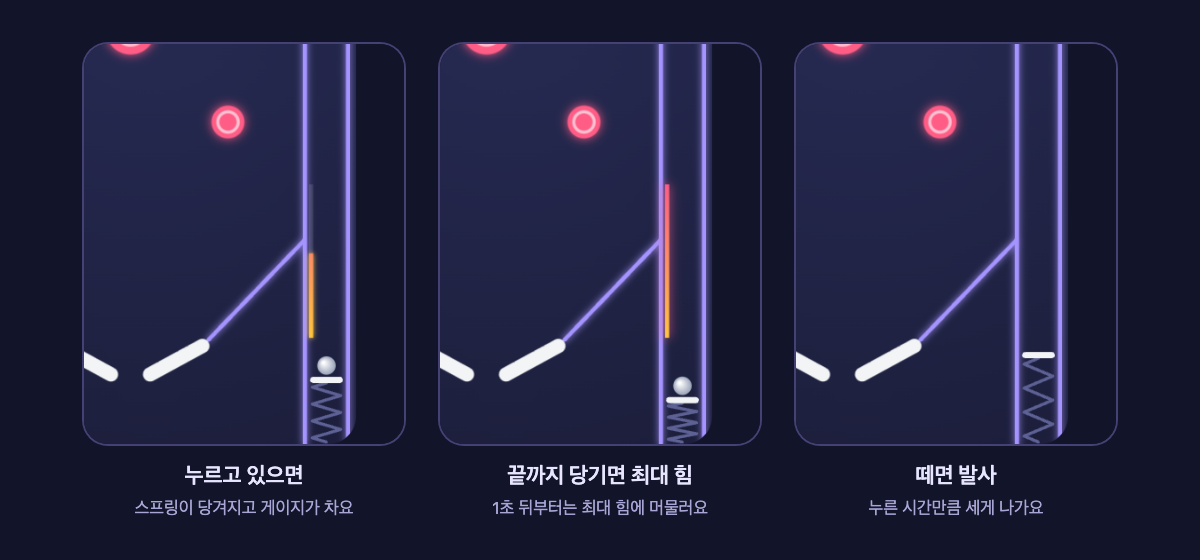
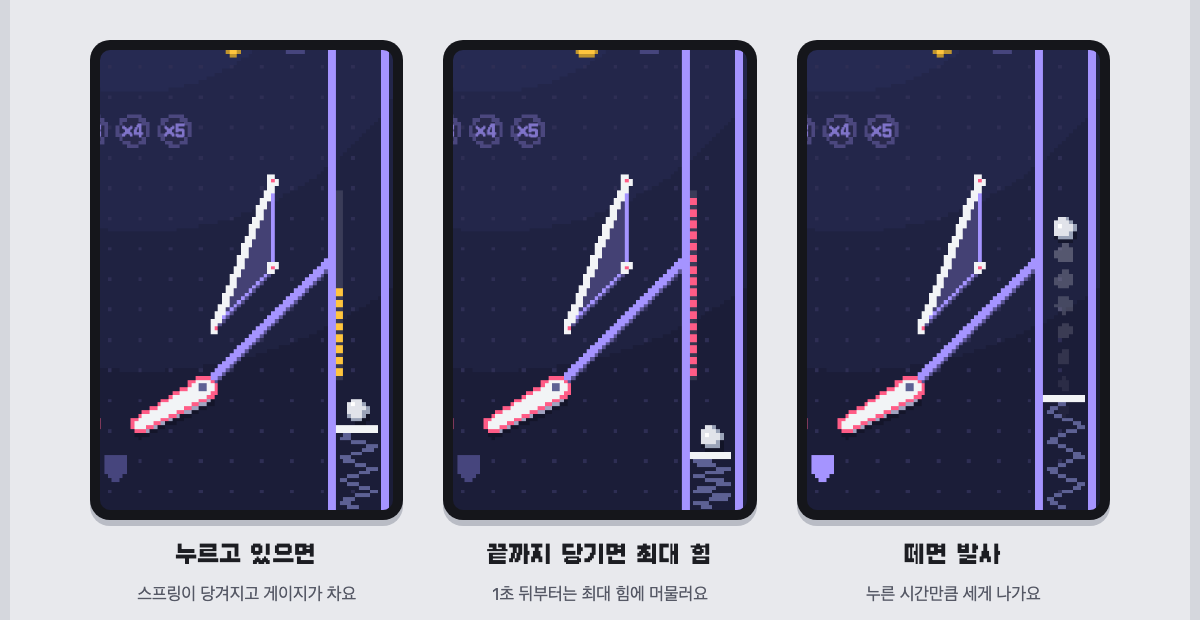
README·스토어 설명·기능 이미지를 새 디자인에 맞게 고침
- 소개에 화이트 오락기 픽셀 그림체, 핀볼 장치(배율·멀티볼·잭팟·공 살리기·콤보), 지뢰찾기 숨은 동전
- 게임별 코인 색, 지금 고른 게임을 앱 전체가 함께 쓰는 흐름, 상점 아이템 능력·이펙트
- 기술 항목에 픽셀 렌더링(1/3 해상도 칸 칠하기·path 묶기·디자인 토큰) 추가, 서버 테스트 수 32개로
- 기능 이미지(발사대·지뢰 폭발)를 픽셀 화면으로 다시 찍음, 스토어 상세 설명의 꾸미기 항목을 판·공·발판·맵으로

diff --git a/README.md b/README.md
@@ -16,7 +16,9 @@ React 19 · TypeScript · Canvas 2D · Node.js 24 · PostgreSQL · Docker · Git
 
 ## 소개
 
-아케이드박스는 [앱인토스](https://developers-apps-in-toss.toss.im)(토스 미니앱) 플랫폼 위에서 도는 웹 게임 모음이에요. 핀볼에서 30,000점을 넘기면 지뢰찾기가 열리는 식으로 게임을 하나씩 열어 가고, 게임마다 모은 코인으로 판과 공, 타일을 꾸며요.
+아케이드박스는 [앱인토스](https://developers-apps-in-toss.toss.im)(토스 미니앱) 플랫폼 위에서 도는 웹 게임 모음이에요. 핀볼에서 30,000점을 넘기면 지뢰찾기가 열리는 식으로 게임을 하나씩 열어 가고, 게임마다 모은 코인으로 핀볼의 판과 공, 지뢰찾기의 발판과 맵을 꾸며요.
+
+화면은 오락실의 흰 오락기를 본떴어요. 회색 몸체에 검은 화면, 빛나는 동그란 버튼이 있고, 아이콘부터 게임 화면까지 모두 픽셀 그림이에요.
 
 게임을 계속 더해 가는 것을 전제로, 게임 목록·잠금 조건·코인·순위표를 게임 단위로 나눠 설계했어요. 클라이언트, 게임 서버, 배포 파이프라인까지 담은 개인 프로젝트예요.
 
@@ -30,8 +32,10 @@ React 19 · TypeScript · Canvas 2D · Node.js 24 · PostgreSQL · Docker · Git
 
 ### 핀볼
 
-- Canvas 2D로 그리는 자체 물리 엔진 — 범퍼, 플리퍼, 발사 레인, 판 위에 떨어진 동전
+- Canvas 2D로 그리는 자체 물리 엔진 — 범퍼, 슬링샷, 플리퍼, 발사 레인, 판 위에 떨어진 동전
 - 누른 시간만큼 스프링이 당겨지는 발사대 — 오래 누를수록 세게 나가고, 1초 뒤부터는 최대 힘에 머물러요
+- 위쪽 레인 불을 다 켜면 보너스 배율(×2~×5), 드롭 타깃을 다 쓰러뜨리면 구멍에 잠금 불 → 공을 넣으면 멀티볼(점수 2배), 멀티볼 중에 넣으면 잭팟
+- 발사 직후 공을 잃으면 한 번 돌려주는 공 살리기, 짧은 간격으로 계속 맞히면 쌓이는 콤보
 - 공 3개, 점수 구간마다 보너스 코인
 
 ![핀볼 발사대: 누르고 있으면 당겨지고, 떼면 발사](docs/images/pinball-plunger.png)
@@ -42,14 +46,16 @@ React 19 · TypeScript · Canvas 2D · Node.js 24 · PostgreSQL · Docker · Git
 - 첫 칸은 항상 안전하고 넓게 열려요. 길게 눌러 깃발, 숫자 칸을 눌러 주변 한꺼번에 열기
 - 큰 판을 위한 두 손가락 확대·축소, 끌어서 이동, 데스크톱 휠 확대
 - 연 칸 · 맞힌 깃발 · 클리어 · 걸린 시간으로 매기는 점수 — 못 깨도 순위에 오르고, 깨면 빠를수록 높아요
+- 누른 칸부터 번지듯 열리고, 판 곳곳에 숨은 동전을 찾으면 코인을 받아요
 - 지뢰를 밟으면 폭발 연출과 함께 가까운 지뢰부터 차례로 위치를 보여 줘요
 
 ![지뢰찾기: 밟는 순간 폭발, 지뢰 위치 공개, 점수 결과](docs/images/minesweeper-boom.png)
 
 ### 공통
 
-- **게임별 코인** — 점수 구간 보너스, 판 위 동전, 클리어 보상, 출석(하루 50), 보상형 광고(하루 3번)
-- **상점** — 코인 아이템과 유료(인앱결제, 평생 소장) 아이템으로 판·공·타일 꾸미기
+- **게임별 코인** — 점수 구간 보너스, 판 위 동전, 클리어 보상, 출석(하루 50), 보상형 광고(하루 3번). 게임마다 코인 색이 달라요(핀볼 금색, 지뢰찾기 민트)
+- **지금 고른 게임 하나를 앱 전체가 함께 써요** — 홈 오락기 화면에서 게임을 넘기면 위쪽 코인 액정이 그 게임 코인으로 바뀌고, 상점과 순위표도 그 게임으로 열려요. 상점 안에서 게임을 바꾸면 홈도 따라 바뀌어요
+- **상점** — 코인 아이템과 유료(인앱결제, 평생 소장) 아이템으로 핀볼 판·공, 지뢰찾기 발판·맵 꾸미기. 아이템마다 능력(판 위 동전 더 자주, 동전 코인 +%, 지뢰 한 번 막기, 숨은 동전 더 많이)과 유료 이펙트(네온·은하수 판, 불꽃·번개 꼬리)가 있어요
 - **게임별 순위표** — 익명 이름으로 표시
 - **기기 간 동기화** — 다른 기기에서 열어도 코인·기록·아이템이 그대로
 - 효과음·진동 설정, 점수 공유
@@ -96,7 +102,14 @@ flowchart LR
 - CORS는 미니앱 origin만 정확히 허용해요. 운영 모드에서는 http 파트너 주소나 개발용 origin이 설정돼 있으면 서버가 시작하지 않아요.
 - 비밀값은 저장소에 두지 않고 GitHub Actions secret으로만 넣어요 — [배포와 비밀값 관리](docs/deploy.md)
 
-### 5. 결제·광고 정책 지키기
+### 5. 픽셀 그림체를 코드로 그리기
+
+- 핀볼 판은 1/3 해상도(134×234칸) 캔버스에 정수 칸 단위 `fillRect`로만 칠해 가장자리 흐림 없이 칸을 살리고, 이미지 보간을 끈 채 키워서 화면에 올려요(`src/pinball/pixel.ts`). 원·다각형·두꺼운 선은 가로줄 단위로 채우는 간단한 래스터라이저로 그려요.
+- 바뀌지 않는 바닥·벽은 판 색이 바뀔 때만 한 번 그려 두고, 점수 팝업·큰 알림 글자만 원래 해상도에서 픽셀 글꼴로 따로 그려요. 매 프레임 칸을 다시 칠해도 데스크톱 브라우저 기준 60fps를 유지해요.
+- 아이콘(16×16)은 문자열 칸 지도로, 홈 화면 게임 그림과 상점 미리보기는 칸 계산으로 만들어요. 같은 색 칸을 SVG `path` 하나로 묶어서 그림 하나의 DOM 노드가 색 수만큼만 생겨요.
+- 색·글꼴·버튼 모양은 디자인 토큰(`src/styles/tokens.css`)과 공통 그림체(`src/styles/arcade.css`)에 모아 둬서, 보라색 테마에서 흰 오락기 테마로 바꿀 때 화면 코드를 거의 건드리지 않았어요.
+
+### 6. 결제·광고 정책 지키기
 
 - 인앱결제는 지급을 마친 뒤에만 성공으로 처리하고, 앱을 열 때 지급되지 않은 주문을 다시 처리해요. 기기를 바꾸면 구매 내역으로 복원하고, 환불된 아이템은 회수해요.
 - 보상형 광고는 끝까지 봤다는 이벤트에서만 보상하고, 다음 광고를 미리 불러 둬요.
@@ -105,19 +118,21 @@ flowchart LR
 
 | 영역 | 사용 기술 |
 |---|---|
-| 클라이언트 | React 19, TypeScript, Vite, Canvas 2D, Web Audio, `@apps-in-toss/web-framework` 3.10 |
+| 클라이언트 | React 19, TypeScript, Vite, Canvas 2D, Web Audio, `@apps-in-toss/web-framework` 3.10, 픽셀 글꼴 [Galmuri](https://github.com/quiple/galmuri)(OFL) |
 | 서버 | Node.js 24 (TypeScript 직접 실행), PostgreSQL 17, `pg` |
 | 인프라 | Docker Compose, Caddy(HTTPS), GCP Compute Engine, GitHub Container Registry, GitHub Actions |
-| 품질 | Node 내장 테스트 러너(서버 28개 테스트), oxlint, CI |
+| 품질 | Node 내장 테스트 러너(서버 32개 테스트), oxlint, CI |
 
 ## 프로젝트 구조
 
 ```
 arcade-box/
 ├─ src/
-│  ├─ pinball/          핀볼 물리 엔진 · Canvas 렌더러
+│  ├─ pinball/          핀볼 물리 엔진 · 픽셀 렌더러 · 타격 연출
 │  ├─ minesweeper/      판 로직 · 확대/이동 제스처
-│  ├─ game/             저장 · 동기화 큐 · 서버 API · 인앱결제 · 광고 · 상점 카탈로그
+│  ├─ game/             저장 · 동기화 큐 · 서버 API · 인앱결제 · 광고 · 상점 카탈로그 · 게임별 코인 색
+│  ├─ components/       픽셀 아이콘 · 홈 화면 게임 그림 · 상점 미리보기
+│  ├─ styles/           디자인 토큰 · 오락기 공통 그림체 · 픽셀 글꼴
 │  └─ pages/            홈 · 핀볼 · 지뢰찾기 · 상점 · 순위표 · 설정 화면
 ├─ server/
 │  ├─ src/              HTTP 라우트 · 게임 규칙 · 저장소(PostgreSQL/메모리) · 파트너 API

diff --git a/docs/store-listing.md b/docs/store-listing.md
@@ -23,7 +23,7 @@
 
 지뢰찾기: 초급, 중급, 고급 세 단계가 있어요. 칸을 눌러 열고, 길게 눌러 깃발을 꽂아요. 큰 판은 두 손가락으로 확대하고 끌어서 옮길 수 있어요. 연 칸, 맞힌 깃발, 걸린 시간으로 점수를 매겨요.
 
-핀볼에서 30,000점을 넘기면 지뢰찾기가 열려요. 게임에서 모은 코인과 출석 보상으로 상점에서 판과 공, 타일을 꾸미고, 게임별 순위표에서 다른 사람들과 기록을 겨뤄요.
+핀볼에서 30,000점을 넘기면 지뢰찾기가 열려요. 게임에서 모은 코인과 출석 보상으로 상점에서 핀볼의 판과 공, 지뢰찾기의 발판과 맵을 꾸미고, 게임별 순위표에서 다른 사람들과 기록을 겨뤄요.
 
 ## 검토 요청 전에 콘솔 웹에서 할 일
 
